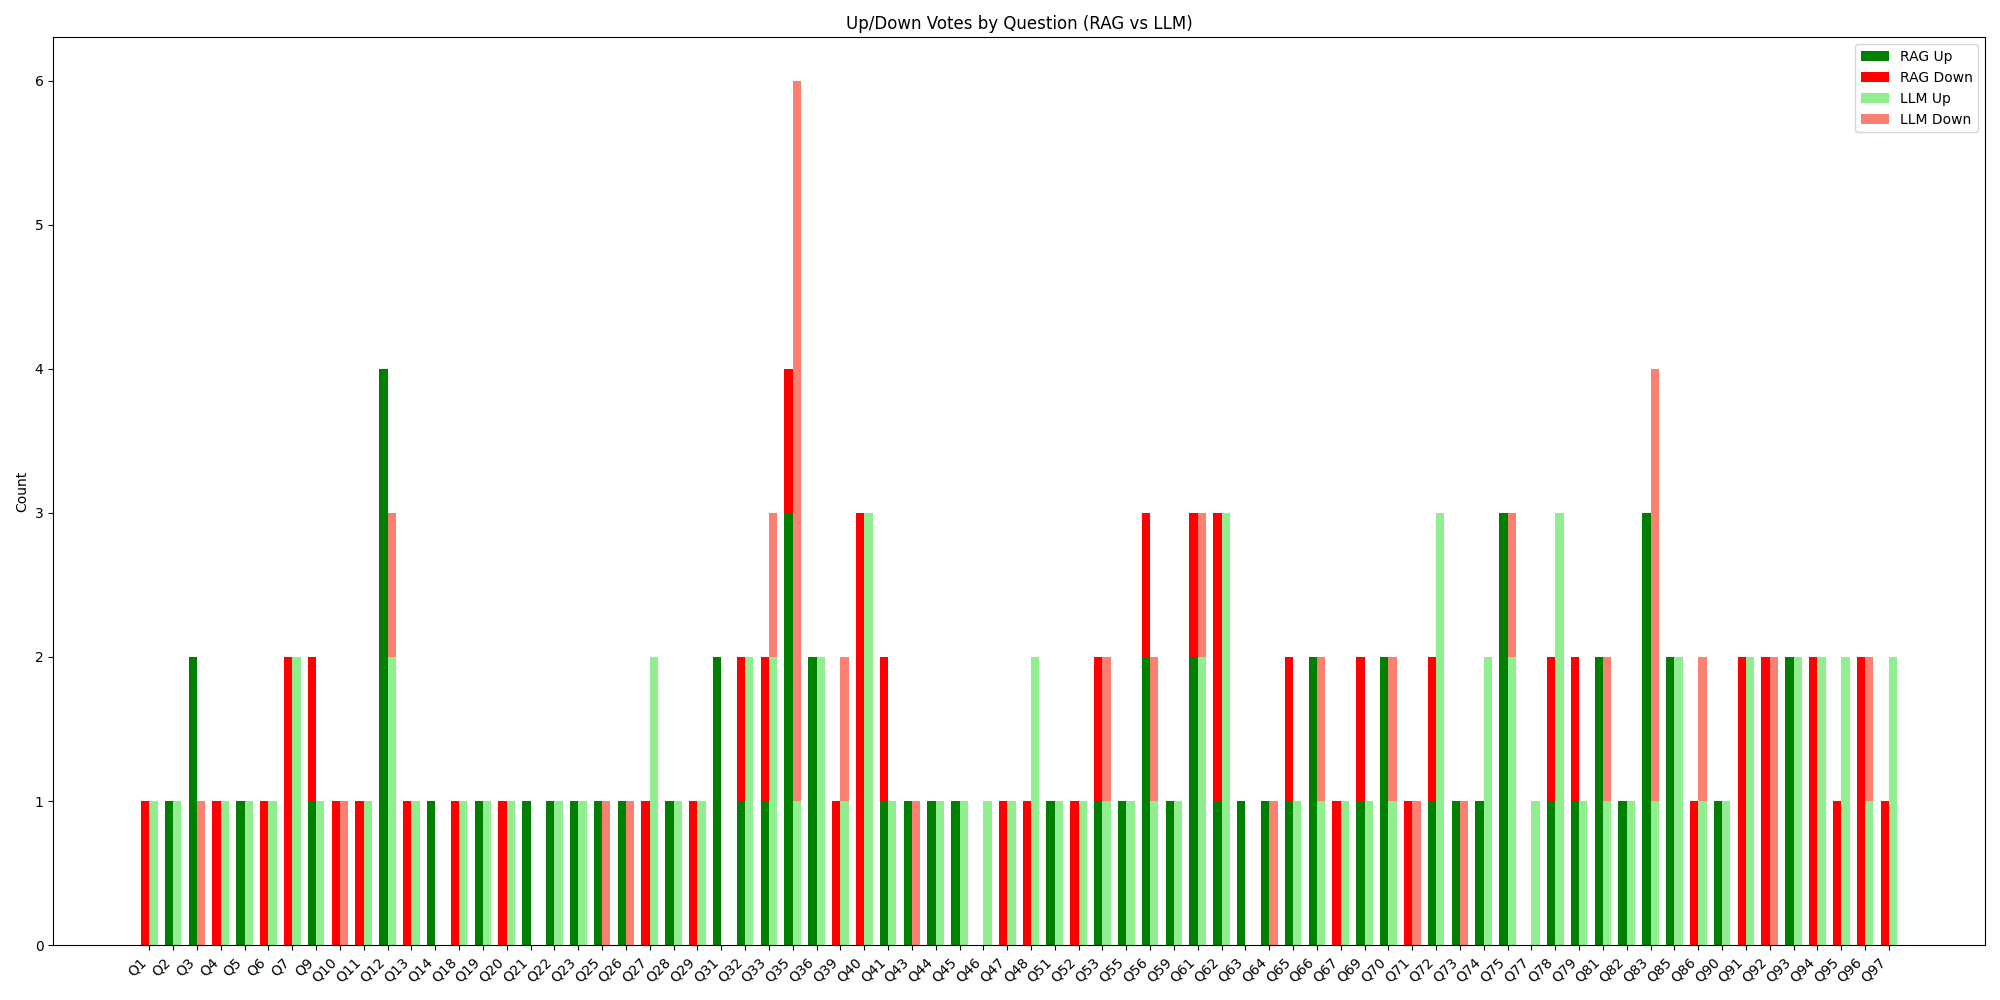
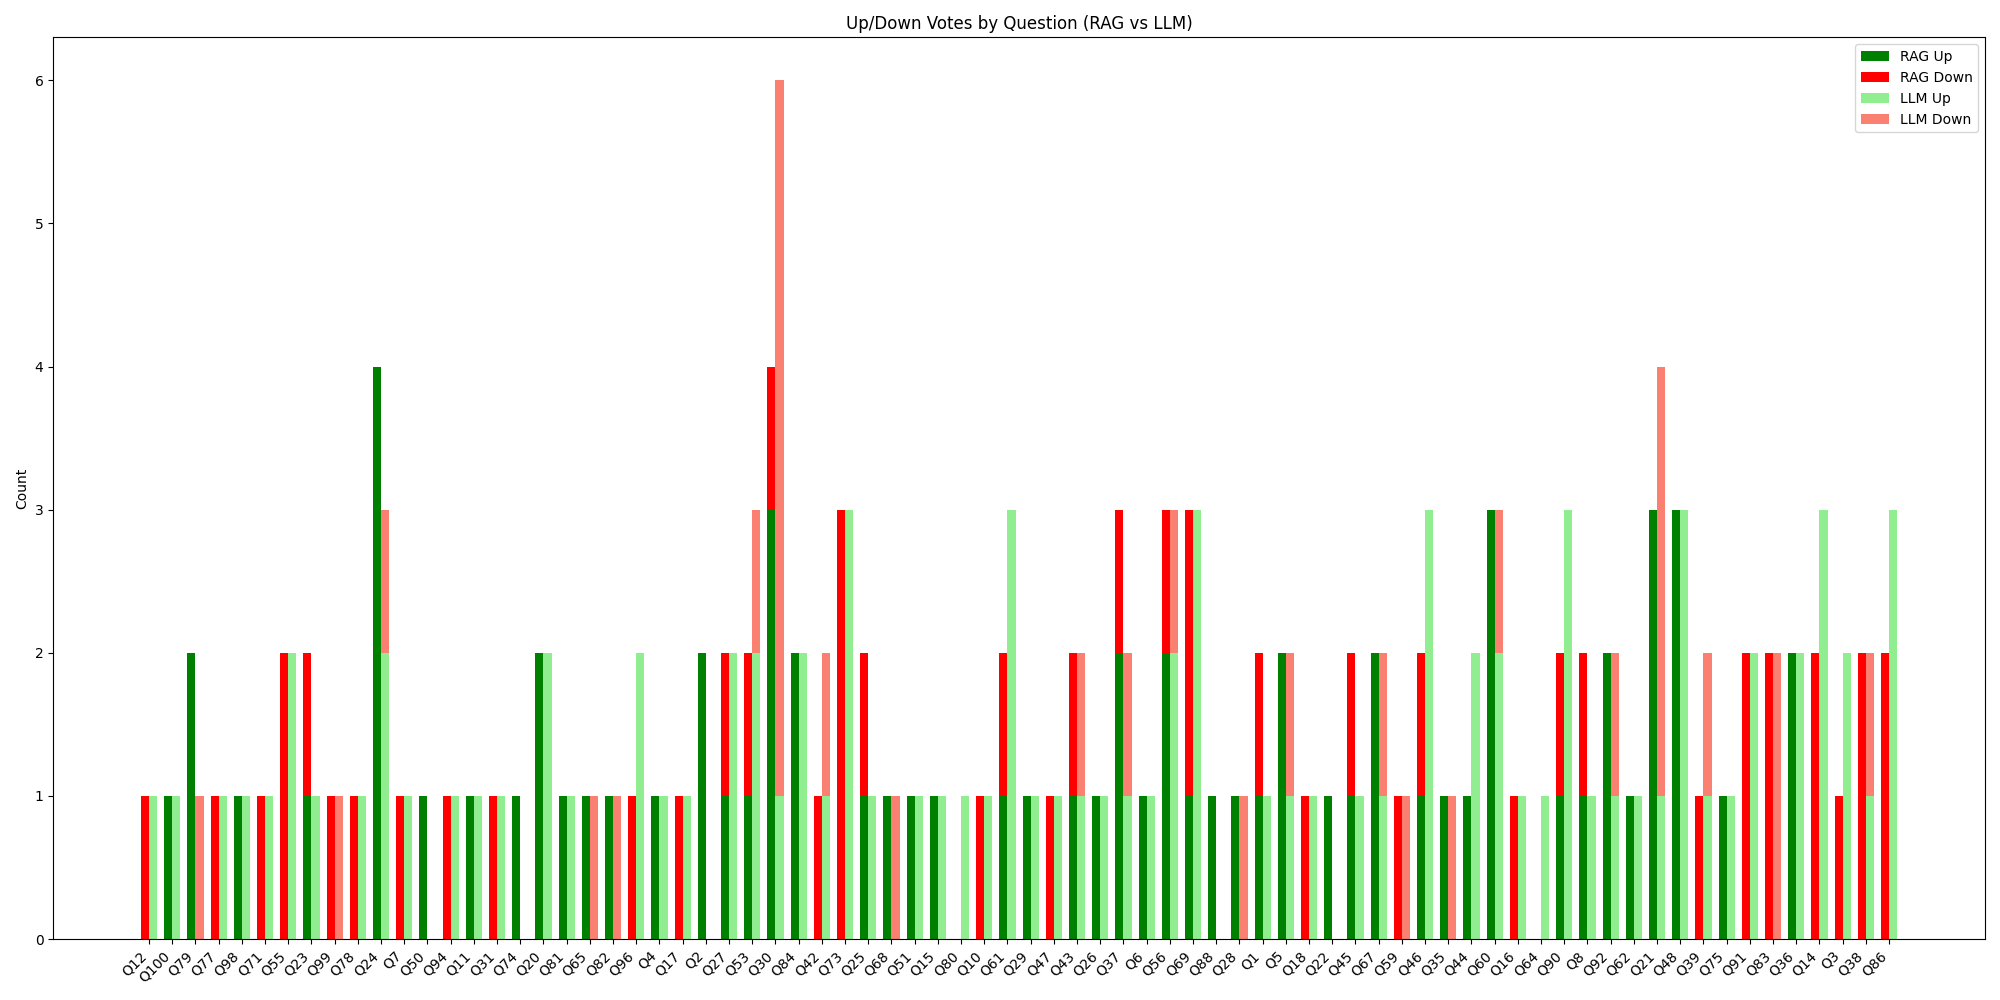
fix export and plot

Changed region(s): [[0.062, 0.062, 0.961, 0.992]]

diff --git a/export_votes.py b/export_votes.py
@@ -30,7 +30,7 @@ def export_votes_to_csv():
     votes = list(votes_col.find())
     
     # Get questions sorted the same way as in analysis_app.py
-    questions = list(questions_col.find().sort("text", 1))
+    questions = list(questions_col.find().sort("_id", 1))
     q_map = {q["_id"]: f"Q{i+1}" for i, q in enumerate(questions)}
     
     rag_up = 0